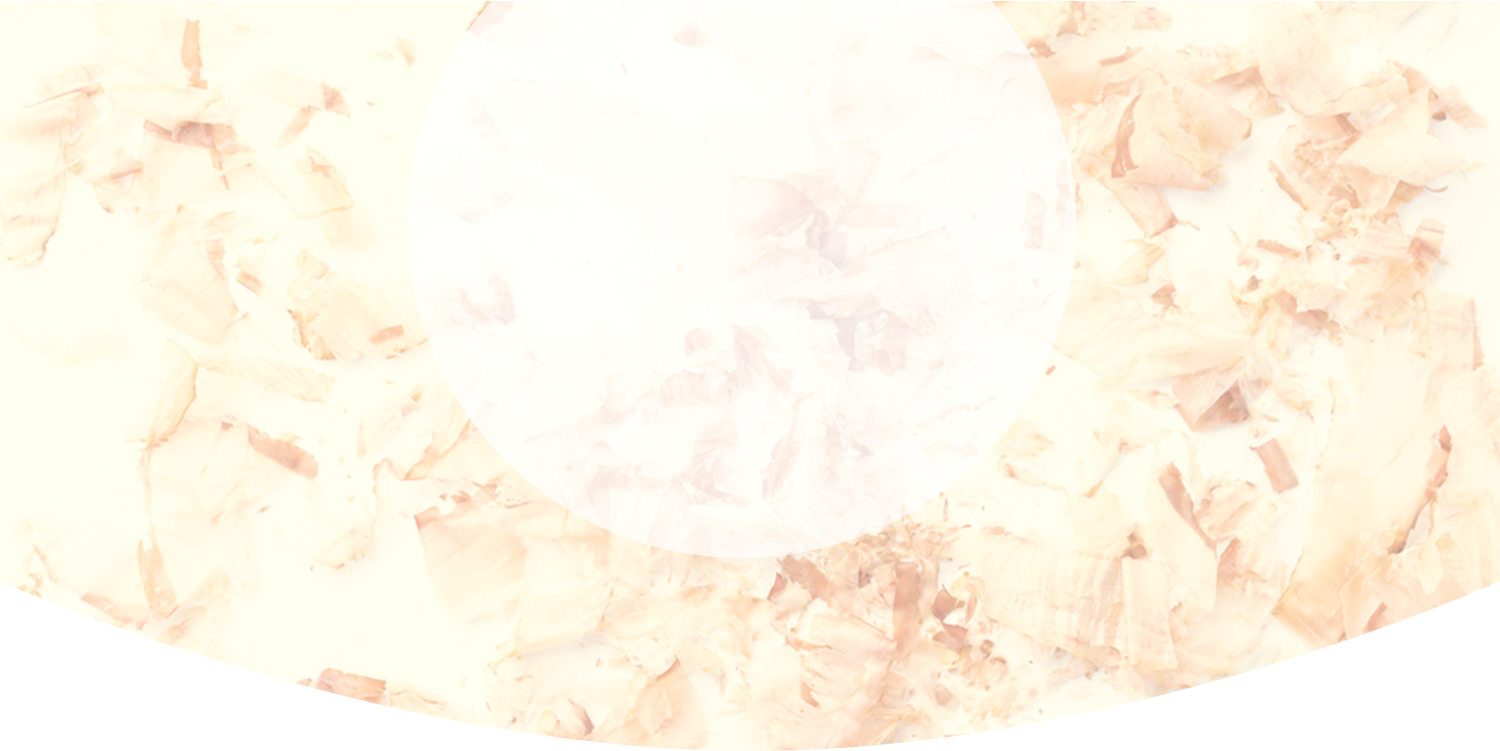
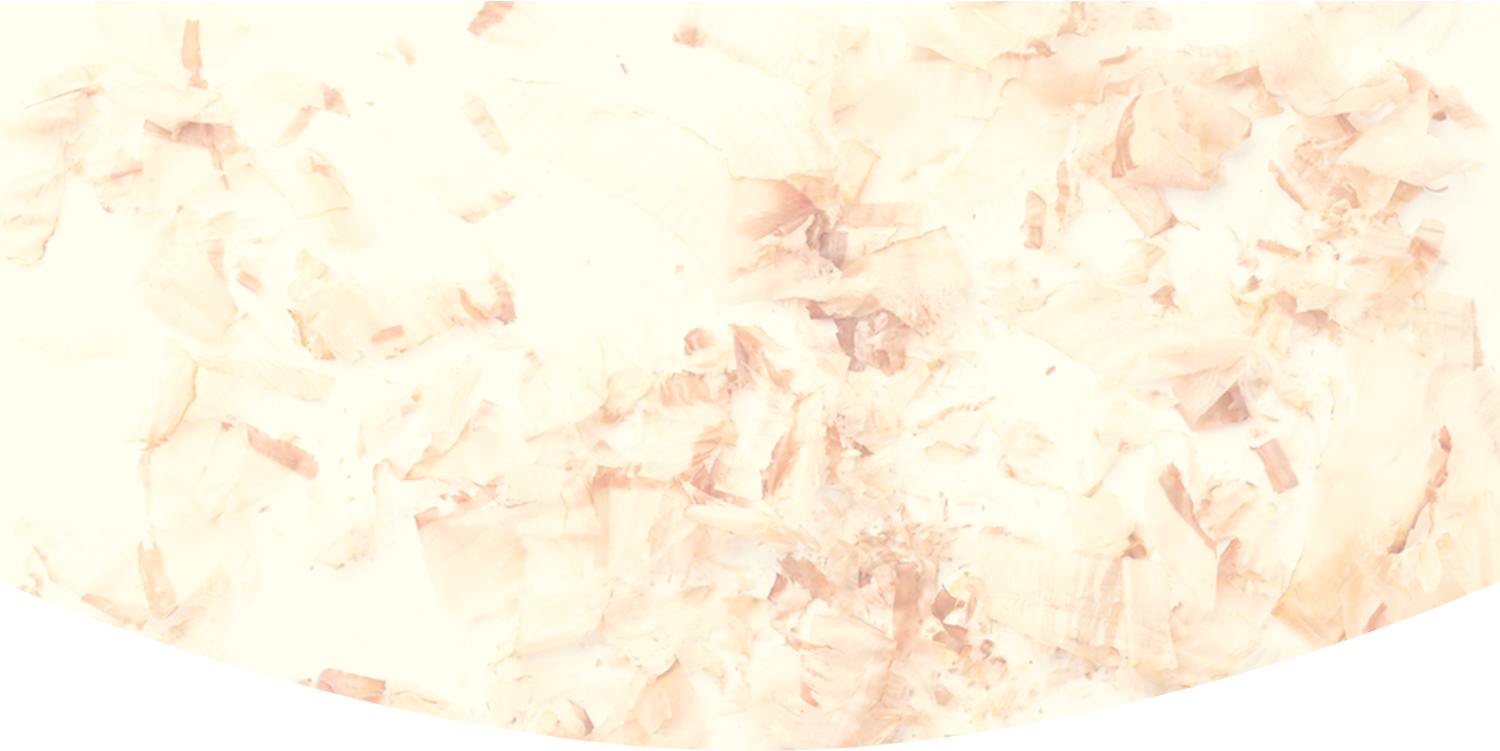
save

diff --git a/www/index.html b/www/index.html
@@ -223,7 +223,7 @@
 				<hr />
 				<div id="sec2">
 					<div class="wrap">
-						<h2 class="txt-center">お出汁を効かせた <br />優しい<span>京</span>らーめん</h2>
+						<h2 class="txt-center fnt-hannari">お出汁を効かせた <br />優しい<span>京</span>らーめん</h2>
 						<p class="sec2-img"><img src="./shared/img/index/set2_img.png" width="792" height="734" alt="かつお節" /></p>
 						<p class="sec2-txt">
 							黄金色の自家製スープをベースにした京らーめんは、<br class="pc" />
@@ -236,7 +236,7 @@
 							より美味しさを引き立てます。
 						</p>
 						<div>
-							<a href="ramen.html" class="btn-link"
+							<a href="ramen.html" class="btn-link fnt-gothic"
 								>おいしさのヒミツ<span><img src="./shared/img/shared/btn_arrow.png" width="104" height="68" alt="arrow" /></span
 							></a>
 						</div>
@@ -295,7 +295,7 @@
 							<p class="sec4-img3"><img src="./shared/img/index/sec4_img3.png" alt="甘味" width="512" height="469" /></p>
 							<h3 class="txt-center">季節の甘味いろいろ</h3>
 							<div class="sec4-btn">
-								<a class="btn-link" href="sweets.html"
+								<a class="btn-link fnt-hannari" href="sweets.html"
 									>甘味のご案内 <span><img src="./shared/img/shared/btn_arrow.png" alt="arrow" width="104" height="68" /></span
 								></a>
 							</div>
@@ -307,7 +307,7 @@
 					<p class="sec5-img2"><img src="./shared/img/index/sec5_img2.jpg" alt="内観" width="579" height="340" /></p>
 					<div class="sec5-btn">
 						<a href="access.html"
-							><p>店内のご案内</p>
+							><p class="fnt-hannari">店内のご案内</p>
 							<span><img src="./shared/img/index/sec5_btn.jpg" alt="arrow" width="106" height="68" /></span
 						></a>
 					</div>

diff --git a/www/shared/css/index.scss b/www/shared/css/index.scss
@@ -315,7 +315,8 @@ main#index {
 	position: relative;
 	@include pc {
 		padding: 118px 0px 78px 0px;
-		background: url(../img/index/set2_bg_top.png) no-repeat top center/100% auto, url(../img/index/sec2_bg_bottom.png) no-repeat bottom center;
+		// z-index: -2;\
+		background: url(../img/index/sec2_deco_top.png) no-repeat top center, url(../img/index/set2_bg_top.png) no-repeat top center/100% auto, url(../img/index/sec2_bg_bottom.jpg) no-repeat bottom center;
 		&:after {
 			content: "";
 			position: absolute;
@@ -382,6 +383,7 @@ main#index {
 	@include pc {
 		padding: 108px 0px 120px 0px;
 		background: unset;
+		background: url(../img/index/sec3_deco1.png) no-repeat top right;
 	}
 	.sec3-slide {
 		width: 75%;

diff --git a/www/shared/css/index.css b/www/shared/css/index.css
@@ -325,7 +325,7 @@ a:hover {
 @media only screen and (min-width: 768px) {
   #sec2 {
     padding: 118px 0px 78px 0px;
-    background: url(../img/index/set2_bg_top.png) no-repeat top center/100% auto, url(../img/index/sec2_bg_bottom.png) no-repeat bottom center;
+    background: url(../img/index/sec2_deco_top.png) no-repeat top center, url(../img/index/set2_bg_top.png) no-repeat top center/100% auto, url(../img/index/sec2_bg_bottom.jpg) no-repeat bottom center;
   }
   #sec2:after {
     content: "";
@@ -401,6 +401,7 @@ a:hover {
   #sec3 {
     padding: 108px 0px 120px 0px;
     background: unset;
+    background: url(../img/index/sec3_deco1.png) no-repeat top right;
   }
 }
 #sec3 .sec3-slide {

diff --git a/www/shared/css/shared.scss b/www/shared/css/shared.scss
@@ -68,7 +68,7 @@ body.nav--opened #menu_toggle * {
 	font-family: "メイリオ", Meiryo, "ヒラギノ角ゴシックPro", "ＭＳ ゴシック", "Hiragino Kaku Gothic Pro", Osaka, "ＭＳ Ｐゴシック", "MS PGothic", sans-serif;
 }
 .fnt-gothic {
-	font-family: "游ゴシック", YuGothic, "ヒラギノ角ゴ Pro", "Hiragino Kaku Gothic Pro", "メイリオ", "Meiryo", Osaka, "ＭＳ Ｐゴシック", "MS PGothic", sans-serif;
+	font-family: "游ゴシック", YuGothic, "ヒラギノ角ゴ Pro", "Hiragino Kaku Gothic Pro", "メイリオ", "Meiryo", Osaka, "ＭＳ Ｐゴシック", "MS PGothic", sans-serif !important;
 }
 .fnt-notosr {
 	font-family: "Noto Serif JP", serif;

diff --git a/www/shared/css/shared.css b/www/shared/css/shared.css
@@ -68,7 +68,7 @@ body.nav--opened #menu_toggle * {
 }
 
 .fnt-gothic {
-  font-family: "游ゴシック", YuGothic, "ヒラギノ角ゴ Pro", "Hiragino Kaku Gothic Pro", "メイリオ", "Meiryo", Osaka, "ＭＳ Ｐゴシック", "MS PGothic", sans-serif;
+  font-family: "游ゴシック", YuGothic, "ヒラギノ角ゴ Pro", "Hiragino Kaku Gothic Pro", "メイリオ", "Meiryo", Osaka, "ＭＳ Ｐゴシック", "MS PGothic", sans-serif !important;
 }
 
 .fnt-notosr {
